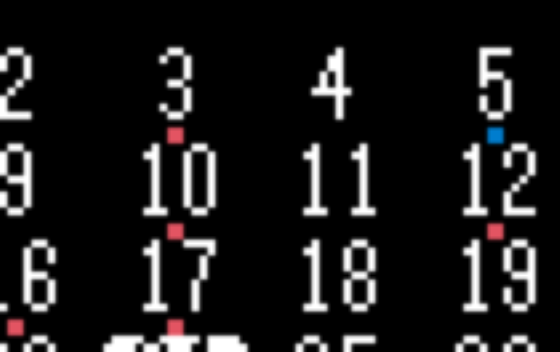
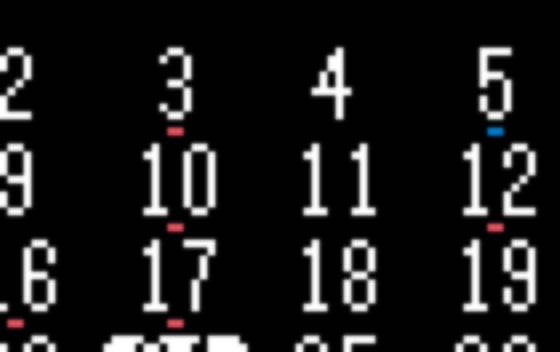
style: 1px event markers on low-DPI (squares 2x1), kept below the numbers

diff --git a/src/c/draw_calendar.c b/src/c/draw_calendar.c
@@ -6,18 +6,20 @@
 // (SMALL_DIGIT_H / SMALL_TOP_PAD) so rows stay optically centered.
 
 // Event markers sit exactly 1px below the digit ink (digits are top-anchored
-// while dots are active), so marker and number can never touch. The user
-// picks the style: a 1px underline bar split into per-calendar color
-// sections, or a row of small squares.
+// while markers are active). On low-DPI screens the markers are a single
+// pixel tall (squares 2x1) so they cannot crowd the row beneath; high-DPI
+// gets 3x3 squares. The bar style is 1px tall everywhere.
 #if PBL_DISPLAY_WIDTH >= 200
   #define TEXT_BOX_SLACK 12
-  #define DOT_SQ 3
+  #define DOT_SQ_W 3
+  #define DOT_SQ_H 3
   #define DOT_GAP 2
   #define MONTH_TILE 19
   #define HEADER_TOP_PAD 3    // GOTHIC_14 header font
 #else
   #define TEXT_BOX_SLACK 10
-  #define DOT_SQ 2
+  #define DOT_SQ_W 2
+  #define DOT_SQ_H 1
   #define DOT_GAP 2
   #define MONTH_TILE 13
   #define HEADER_TOP_PAD 2    // GOTHIC_09 header font
@@ -66,20 +68,19 @@ static void prv_draw_dots(GContext *ctx, int day, GRect cell, bool on_today_box)
     if (mask & (DOT_TIMED_BIT(cal) | DOT_ALLDAY_BIT(cal))) { n++; }
   }
   if (n == 0) { return; }
+  bool bar_style = g_settings.dots_style == DOTS_STYLE_BAR;
+  int seg = 0;
 
-  // Anchored to the digits: one blank row below the ink, never touching.
+  // One blank row below the digit ink, never touching either neighbor.
   int16_t marker_y = cell.origin.y + SMALL_DIGIT_H + 1;
   int16_t avail_h = cell.size.h - SMALL_DIGIT_H - 1;
   if (avail_h < 1) { return; }
-  bool bar_style = g_settings.dots_style == DOTS_STYLE_BAR;
-
-  int16_t sq_h = DOT_SQ < avail_h ? DOT_SQ : avail_h;
+  int16_t sq_h = DOT_SQ_H < avail_h ? DOT_SQ_H : avail_h;
   int16_t x, bar_w = cell.size.w - 7;
-  int seg = 0;
   if (bar_style) {
     x = cell.origin.x + (cell.size.w - bar_w) / 2;
   } else {
-    int16_t total_w = n * DOT_SQ + (n - 1) * DOT_GAP;
+    int16_t total_w = n * DOT_SQ_W + (n - 1) * DOT_GAP;
     x = cell.origin.x + (cell.size.w - total_w) / 2;
   }
 
@@ -98,11 +99,11 @@ static void prv_draw_dots(GContext *ctx, int day, GRect cell, bool on_today_box)
       int16_t w = bar_w / n + (seg == n - 1 ? bar_w % n : 0);
       graphics_fill_rect(ctx, GRect(x, marker_y, w, DOT_BAR_H), 0, GCornerNone);
       x += w;
-      seg++;
     } else {
-      graphics_fill_rect(ctx, GRect(x, marker_y, DOT_SQ, sq_h), 0, GCornerNone);
-      x += DOT_SQ + DOT_GAP;
+      graphics_fill_rect(ctx, GRect(x, marker_y, DOT_SQ_W, sq_h), 0, GCornerNone);
+      x += DOT_SQ_W + DOT_GAP;
     }
+    seg++;
   }
 }
 
